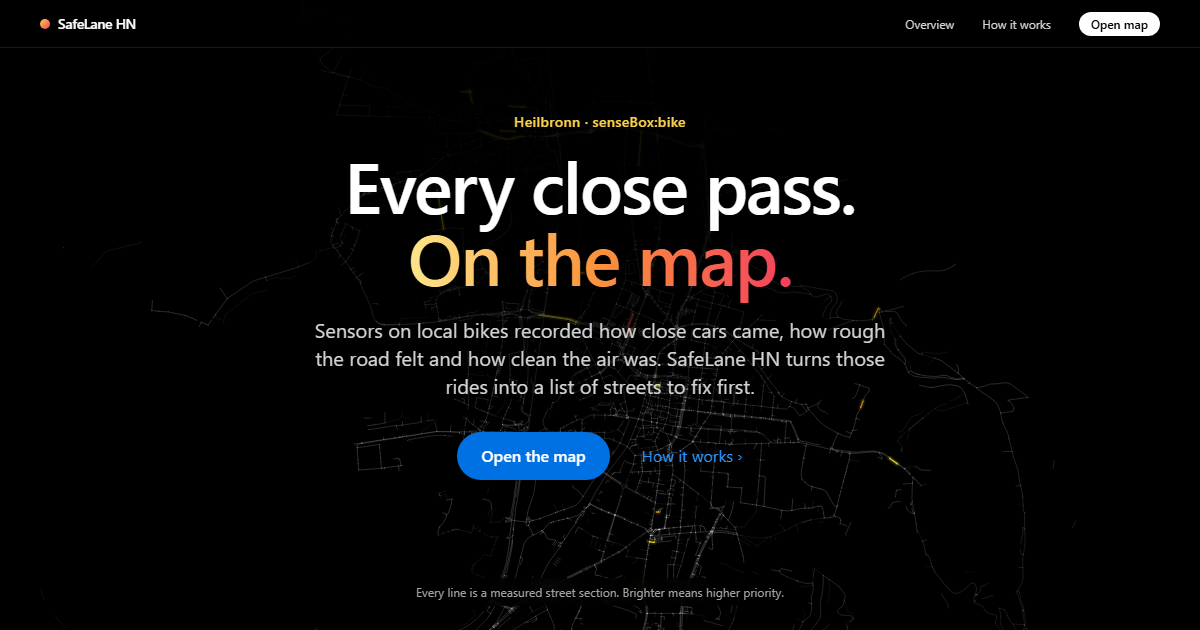
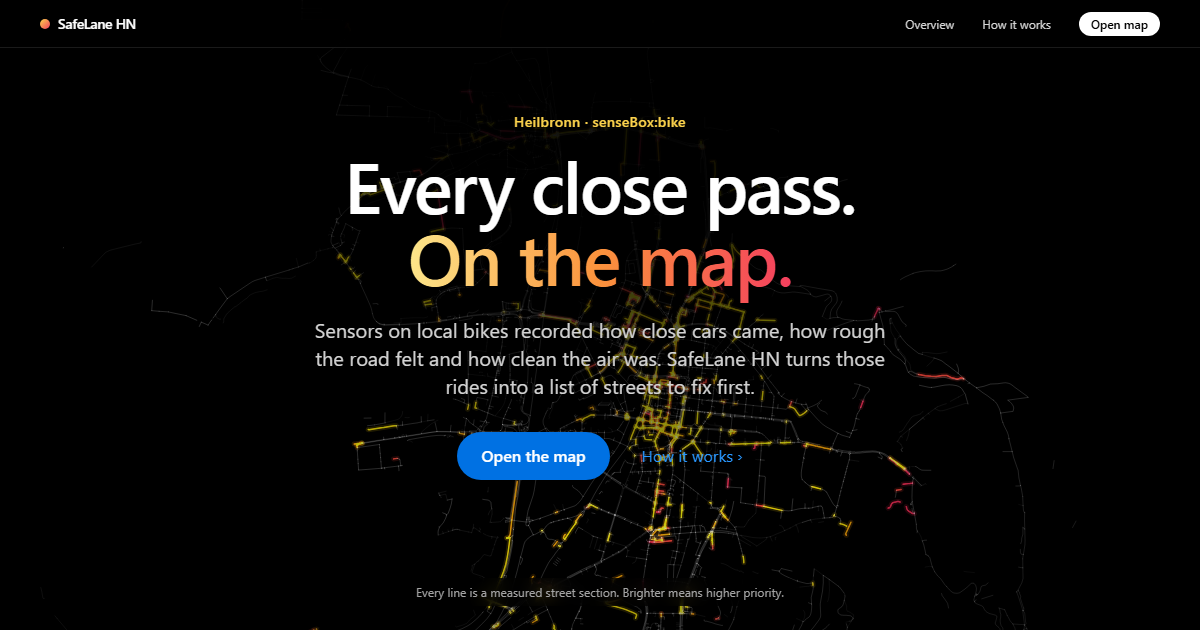
Refactor HeroNetwork to implement ranking tiers for color and glow effects

diff --git a/web/src/components/landing/HeroNetwork.tsx b/web/src/components/landing/HeroNetwork.tsx
@@ -3,13 +3,15 @@
 import { useEffect, useRef } from 'react';
 import type { SegmentFeature } from '@/lib/loadData';
 import type { Meta } from '@/lib/types';
-import { scoreBreaks } from '@/content/theme';
 
 // The map's ramp ends in dark purple, which vanishes on black. The hero uses its own
 // ramp instead: quiet grey for low priority, warm and bright for high.
 const HERO_COLORS = ['rgba(255,255,255,0.22)', '#ffd60a', '#ff9f0a', '#ff453a', '#ff2d55'];
 const NO_DATA = 'rgba(255,255,255,0.08)';
 const DRAW_MS = 2200;
+// Brightness by rank, not by absolute score: the top 15% of ranked sections glow, the top 1%
+// brightest. The picture stays the same whatever score range the method produces.
+const RANK_TIERS = [0.01, 0.03, 0.08, 0.15];
 
 interface Line {
   coords: number[][];
@@ -19,9 +21,11 @@ interface Line {
   d: number;
 }
 
-function heroColor(score: number | null): string {
-  if (score === null) return NO_DATA;
-  return HERO_COLORS[scoreBreaks.filter((b) => score >= b).length];
+/** HERO_COLORS index: 0 = quiet grey, 4 = top tier; null = not ranked. */
+function heroTier(rank: number | null, nRanked: number): number | null {
+  if (rank === null) return null;
+  const tier = RANK_TIERS.findIndex((share) => rank <= share * nRanked);
+  return tier === -1 ? 0 : RANK_TIERS.length - tier;
 }
 
 // The real street network, drawn outward from the city centre on a canvas.
@@ -40,10 +44,11 @@ export default function HeroNetwork({ segments, meta }: { segments: SegmentFeatu
     const lines: Line[] = segments
       .map(({ geometry, properties: p }) => {
         const [x, y] = geometry.coordinates[0];
+        const tier = heroTier(p.rank, meta.n_eligible);
         return {
           coords: geometry.coordinates,
-          color: heroColor(p.score),
-          glow: p.score !== null && p.score >= scoreBreaks[0],
+          color: tier === null ? NO_DATA : HERO_COLORS[tier],
+          glow: tier !== null && tier > 0,
           d: Math.hypot((x - cx) * kx, y - cy),
         };
       })
